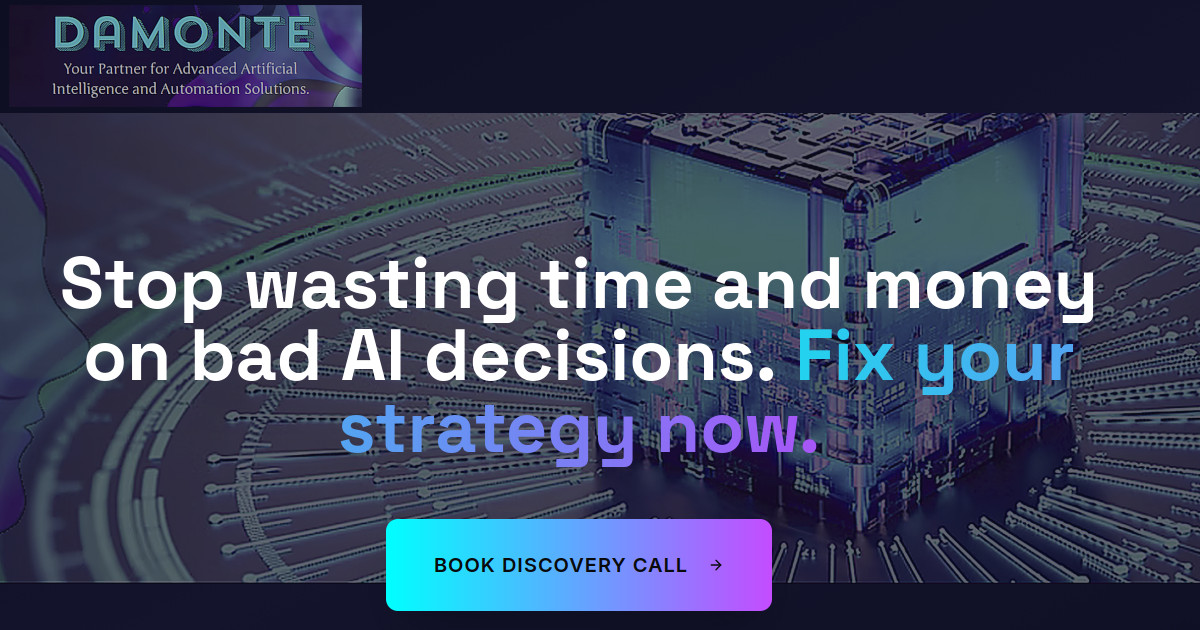
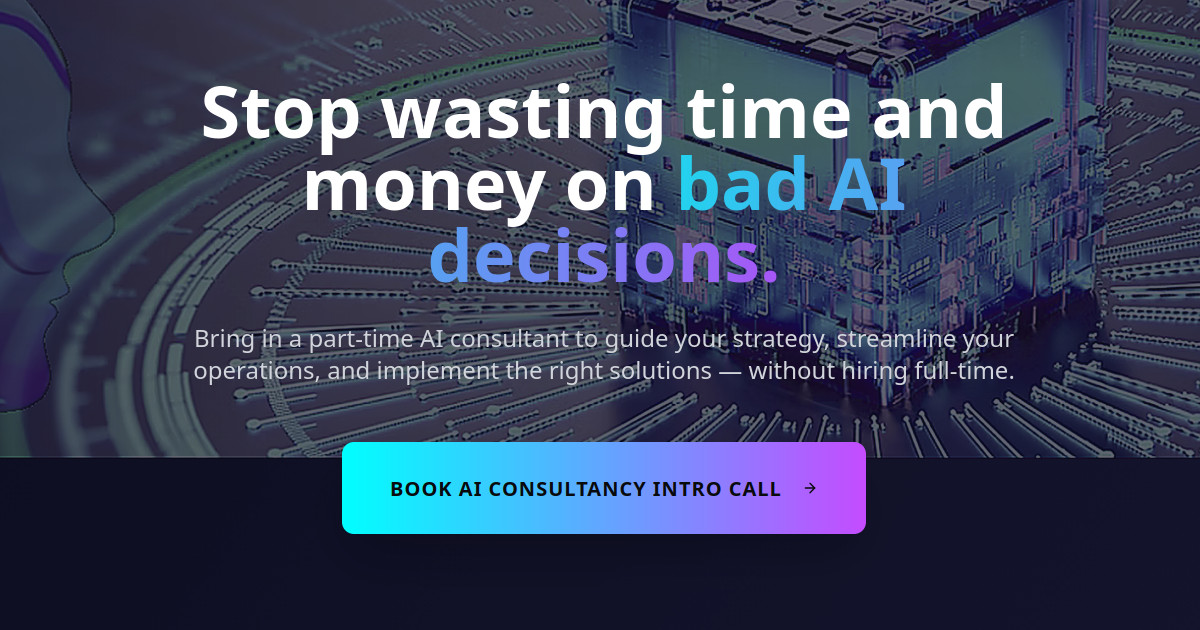
Update to AI Consultancy version - new hero, sections, and booking flow

diff --git a/app/page.tsx b/app/page.tsx
@@ -1,13 +1,13 @@
 "use client";
 
 import { Button } from "@/components/ui/button";
-import { ArrowRight } from "lucide-react";
+import { ArrowRight, AlertTriangle, Target, Cog, CheckCircle } from "lucide-react";
 import { BookingDialog } from "@/components/BookingDialog";
 
 export default function Home() {
   return (
     <div className="min-h-screen bg-gradient-to-br from-[#0a0a1a] via-[#1a1a3a] to-[#0a0a1a] overflow-hidden relative">
-      {/* Hero Section - Full Screen - LinkedIn Optimized */}
+      {/* Hero Section - Full Screen */}
       <section className="relative min-h-screen flex items-center justify-center">
         {/* Background Image - Cube Banner (Full Width, Not Cropped) */}
         <div 
@@ -24,11 +24,14 @@ export default function Home() {
         <div className="absolute inset-0 bg-[#0a0a1a]/40" />
 
         {/* Content - Centered */}
-        <div className="container mx-auto px-6 relative z-10 text-center max-w-6xl">
+        <div className="container mx-auto px-6 relative z-10 text-center max-w-5xl">
           <div className="animate-slide-up">
-            <h1 className="font-display text-2xl sm:text-4xl md:text-5xl lg:text-6xl xl:text-7xl font-bold mb-10 md:mb-14 leading-tight text-white drop-shadow-2xl">
-              Stop wasting time and money on bad AI decisions. <span className="bg-gradient-to-r from-cyan-400 to-purple-500 bg-clip-text text-transparent">Fix your strategy now.</span>
+            <h1 className="font-display text-2xl sm:text-4xl md:text-5xl lg:text-6xl xl:text-7xl font-bold mb-6 md:mb-8 leading-tight text-white drop-shadow-2xl">
+              Stop wasting time and money on <span className="bg-gradient-to-r from-cyan-400 to-purple-500 bg-clip-text text-transparent">bad AI decisions.</span>
             </h1>
+            <p className="text-lg sm:text-xl md:text-2xl text-gray-300 mb-10 md:mb-14 max-w-4xl mx-auto leading-relaxed">
+              Bring in a part-time AI consultant to guide your strategy, streamline your operations, and implement the right solutions — without hiring full-time.
+            </p>
           </div>
 
           <div className="animate-fade-in" style={{ animationDelay: '0.3s' }}>
@@ -39,12 +42,163 @@ export default function Home() {
                   size="lg" 
                   className="text-lg md:text-xl px-8 md:px-12 py-6 md:py-8 h-auto shadow-2xl hover:scale-105 transition-transform duration-300"
                 >
-                  Book Discovery Call
+                  BOOK AI CONSULTANCY INTRO CALL
                   <ArrowRight className="ml-3 w-5 h-5 md:w-6 md:h-6" />
                 </Button>
               </BookingDialog>
             </div>
           </div>
+        </div>
+      </section>
+
+      {/* Why AI Fails Section */}
+      <section className="relative py-20 md:py-28 bg-[#0a0a1a]/80">
+        <div className="container mx-auto px-6 max-w-5xl">
+          <div className="text-center mb-12">
+            <div className="flex items-center justify-center gap-3 mb-4">
+              <AlertTriangle className="w-8 h-8 text-amber-400" />
+              <h2 className="font-display text-3xl sm:text-4xl md:text-5xl font-bold text-white">
+                Why AI Fails for Most <span className="bg-gradient-to-r from-cyan-400 to-purple-500 bg-clip-text text-transparent">SMEs</span>
+              </h2>
+            </div>
+          </div>
+          
+          <div className="grid md:grid-cols-2 lg:grid-cols-3 gap-6 mb-12">
+            {[
+              "Wrong tools",
+              "No real strategy",
+              "Poor integration",
+              "Limited internal expertise",
+              "Manual, inefficient processes",
+            ].map((item, index) => (
+              <div 
+                key={index}
+                className="flex items-center gap-3 bg-[#1a1a3a]/50 border border-[#2a2a4a] rounded-lg p-4"
+              >
+                <div className="w-2 h-2 bg-red-500 rounded-full flex-shrink-0" />
+                <span className="text-gray-300 text-lg">{item}</span>
+              </div>
+            ))}
+          </div>
+
+          <div className="text-center space-y-4">
+            <p className="text-xl md:text-2xl text-cyan-400 font-semibold">
+              AI isn't the issue — the approach is.
+            </p>
+            <p className="text-lg md:text-xl text-gray-300">
+              You don't need more tools.<br />
+              You need strategic guidance from someone who understands your business.
+            </p>
+          </div>
+        </div>
+      </section>
+
+      {/* Who This Is For Section */}
+      <section className="relative py-20 md:py-28 bg-gradient-to-b from-[#0a0a1a] to-[#1a1a3a]">
+        <div className="container mx-auto px-6 max-w-5xl">
+          <div className="text-center mb-12">
+            <div className="flex items-center justify-center gap-3 mb-4">
+              <Target className="w-8 h-8 text-purple-400" />
+              <h2 className="font-display text-3xl sm:text-4xl md:text-5xl font-bold text-white">
+                This Is For SMEs Who <span className="bg-gradient-to-r from-cyan-400 to-purple-500 bg-clip-text text-transparent">Want:</span>
+              </h2>
+            </div>
+          </div>
+          
+          <div className="grid md:grid-cols-2 gap-6 mb-12">
+            {[
+              "A clear and actionable AI roadmap",
+              "More efficient operations",
+              "Expert guidance without the cost of hiring",
+              "Someone embedded in the business who understands the day-to-day",
+            ].map((item, index) => (
+              <div 
+                key={index}
+                className="flex items-start gap-4 bg-[#1a1a3a]/50 border border-[#2a2a4a] rounded-lg p-5"
+              >
+                <CheckCircle className="w-6 h-6 text-green-400 flex-shrink-0 mt-0.5" />
+                <span className="text-gray-200 text-lg">{item}</span>
+              </div>
+            ))}
+          </div>
+
+          <div className="text-center">
+            <p className="text-xl md:text-2xl text-purple-400 font-semibold">
+              If you're ready for AI to actually make a difference, this is for you.
+            </p>
+          </div>
+        </div>
+      </section>
+
+      {/* How It Works Section */}
+      <section className="relative py-20 md:py-28 bg-[#0a0a1a]/80">
+        <div className="container mx-auto px-6 max-w-5xl">
+          <div className="text-center mb-12">
+            <div className="flex items-center justify-center gap-3 mb-4">
+              <Cog className="w-8 h-8 text-cyan-400" />
+              <h2 className="font-display text-3xl sm:text-4xl md:text-5xl font-bold text-white">
+                How the Part-Time AI <span className="bg-gradient-to-r from-cyan-400 to-purple-500 bg-clip-text text-transparent">Consultancy Works</span>
+              </h2>
+            </div>
+          </div>
+          
+          <div className="text-center mb-12">
+            <p className="text-lg md:text-xl text-gray-300 max-w-3xl mx-auto">
+              I integrate into your business for <span className="text-cyan-400 font-semibold">6–10 hours per month</span> over a <span className="text-cyan-400 font-semibold">3–6 month engagement</span> (extendable), offering strategic support across your entire organisation.
+            </p>
+          </div>
+
+          <div className="grid md:grid-cols-2 lg:grid-cols-3 gap-6 mb-12">
+            {[
+              { step: "1", text: "Review your departments and workflows" },
+              { step: "2", text: "Map key processes" },
+              { step: "3", text: "Identify bottlenecks and inefficiencies" },
+              { step: "4", text: "Recommend strategic automations" },
+              { step: "5", text: "Oversee implementation" },
+              { step: "6", text: "Support and train your team" },
+            ].map((item, index) => (
+              <div 
+                key={index}
+                className="flex items-start gap-4 bg-[#1a1a3a]/50 border border-[#2a2a4a] rounded-lg p-5"
+              >
+                <div className="w-8 h-8 bg-gradient-to-r from-cyan-500 to-purple-500 rounded-full flex items-center justify-center flex-shrink-0">
+                  <span className="text-white font-bold text-sm">{item.step}</span>
+                </div>
+                <span className="text-gray-200 text-lg">{item.text}</span>
+              </div>
+            ))}
+          </div>
+
+          <div className="text-center space-y-2">
+            <p className="text-xl md:text-2xl text-white font-semibold">
+              No full-time hire. No long contracts.
+            </p>
+            <p className="text-lg md:text-xl text-gray-300">
+              Just flexible, expert AI support tailored to your business.
+            </p>
+          </div>
+        </div>
+      </section>
+
+      {/* Final CTA Section */}
+      <section className="relative py-20 md:py-28 bg-gradient-to-b from-[#1a1a3a] to-[#0a0a1a]">
+        <div className="container mx-auto px-6 max-w-4xl text-center">
+          <h2 className="font-display text-3xl sm:text-4xl md:text-5xl font-bold text-white mb-8">
+            Ready to Transform Your <span className="bg-gradient-to-r from-cyan-400 to-purple-500 bg-clip-text text-transparent">AI Strategy?</span>
+          </h2>
+          <p className="text-lg md:text-xl text-gray-300 mb-10 max-w-2xl mx-auto">
+            Book your free intro call today and discover how part-time AI consultancy can drive real results for your business.
+          </p>
+          <BookingDialog>
+            <Button 
+              variant="hero" 
+              size="lg" 
+              className="text-lg md:text-xl px-8 md:px-12 py-6 md:py-8 h-auto shadow-2xl hover:scale-105 transition-transform duration-300"
+            >
+              BOOK AI CONSULTANCY INTRO CALL
+              <ArrowRight className="ml-3 w-5 h-5 md:w-6 md:h-6" />
+            </Button>
+          </BookingDialog>
         </div>
       </section>
     </div>

diff --git a/components/BookingDialog.tsx b/components/BookingDialog.tsx
@@ -33,13 +33,20 @@ export function BookingDialog({ children }: BookingDialogProps) {
       <DialogContent className="sm:max-w-[700px] max-h-[90vh] overflow-y-auto">
         <DialogHeader>
           <DialogTitle className="font-display text-2xl">
-            Book Your <span className="text-gradient">Discovery Call</span>
+            Book Your <span className="text-gradient">AI Consultancy Intro Call</span>
           </DialogTitle>
           <DialogDescription className="text-base">
-            Schedule a free 30-minute consultation to discuss your AI strategy and 
-            get expert guidance. We&apos;ll get back to you within 24 hours.
+            A free 60-minute call to understand your goals and challenges, introduce you to Damonte&apos;s consultancy approach, and explore how a part-time AI consultant could integrate into your business to drive strategic improvements across all departments.
           </DialogDescription>
         </DialogHeader>
+        <div className="mt-4 p-4 bg-muted/50 rounded-lg border border-border/50">
+          <p className="text-sm font-medium text-foreground mb-2">During this call, you&apos;ll get:</p>
+          <ul className="text-sm text-muted-foreground space-y-1">
+            <li>• A clear overview of how part-time AI consultancy works</li>
+            <li>• Guidance on whether consultancy is the right fit</li>
+            <li>• An outline of strategic improvements AI could bring to your operations</li>
+          </ul>
+        </div>
         <div className="mt-6">
           <BookingForm onSuccess={handleSuccess} />
         </div>

diff --git a/components/BookingForm.tsx b/components/BookingForm.tsx
@@ -319,11 +319,11 @@ export function BookingForm({ onSuccess }: BookingFormProps) {
           size="lg"
           disabled={isSubmitting}
         >
-          {isSubmitting ? "Submitting..." : "Submit Booking Request"}
+          {isSubmitting ? "Submitting..." : "Confirm AI Consultancy Call"}
         </Button>
 
         <p className="text-sm text-muted-foreground text-center">
-          We&apos;ll contact you within 24 hours to confirm your workshop booking.
+          We&apos;ll contact you within 24 hours to confirm your AI consultancy intro call.
         </p>
       </form>
     </Form>
